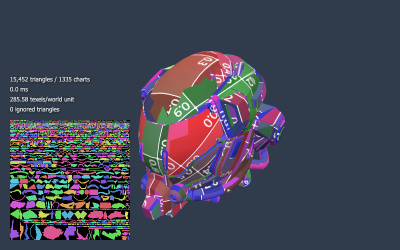
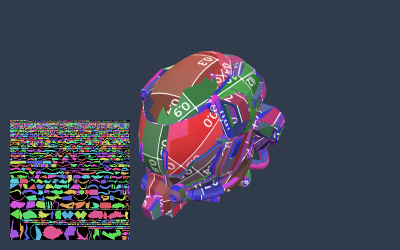
webgpu_unwrap: Hide status text in E2E screenshots

Changed region(s): [[0.03, 0.308, 0.24, 0.448]]

diff --git a/examples/webgpu_unwrap.html b/examples/webgpu_unwrap.html
@@ -10,7 +10,7 @@
 		<link type="text/css" rel="stylesheet" href="example.css">
 		<style>
 			#atlas-preview { position: absolute; bottom: 20px; left: 20px; pointer-events: none; }
-			#status { color: #e0e0e0; text-shadow: 1px 1px 5px rgba(0, 0, 0, .7); font: 400 12px/20px 'Inter', 'Segoe UI', Tahoma, Geneva, Verdana, sans-serif; white-space: pre-wrap; margin: 0 0 12px; }
+			#status { position: absolute; bottom: 272px; left: 20px; pointer-events: none; color: #e0e0e0; text-shadow: 1px 1px 5px rgba(0, 0, 0, .7); font: 400 12px/20px 'Inter', 'Segoe UI', Tahoma, Geneva, Verdana, sans-serif; white-space: pre-wrap; }
 			#atlas { display: block; width: 240px; height: 240px; background: #080c12; }
 		</style>
 	</head>
@@ -28,8 +28,8 @@
 			</small>
 		</div>
 
+		<div id="status" class="lbl">Loading renderer...</div>
 		<div id="atlas-preview">
-			<p id="status">Loading renderer...</p>
 			<canvas id="atlas" width="512" height="512"></canvas>
 		</div>
 		<script type="importmap">
